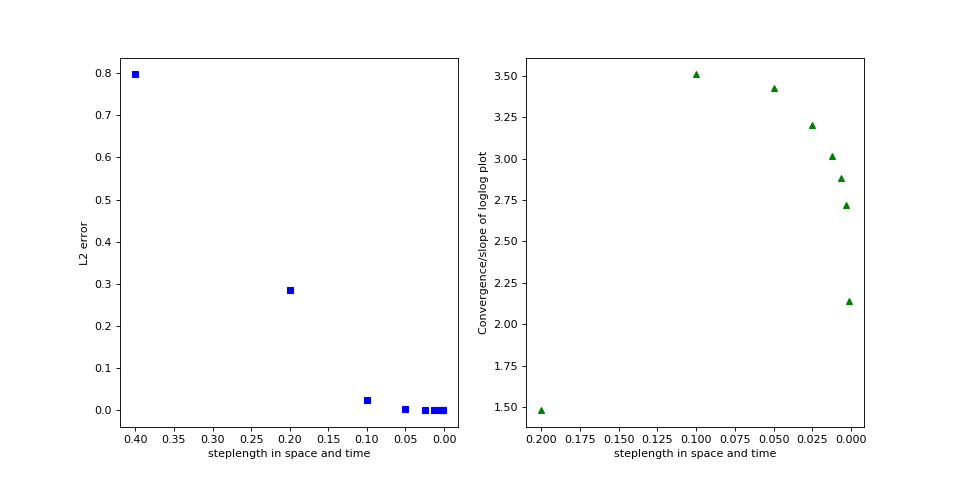
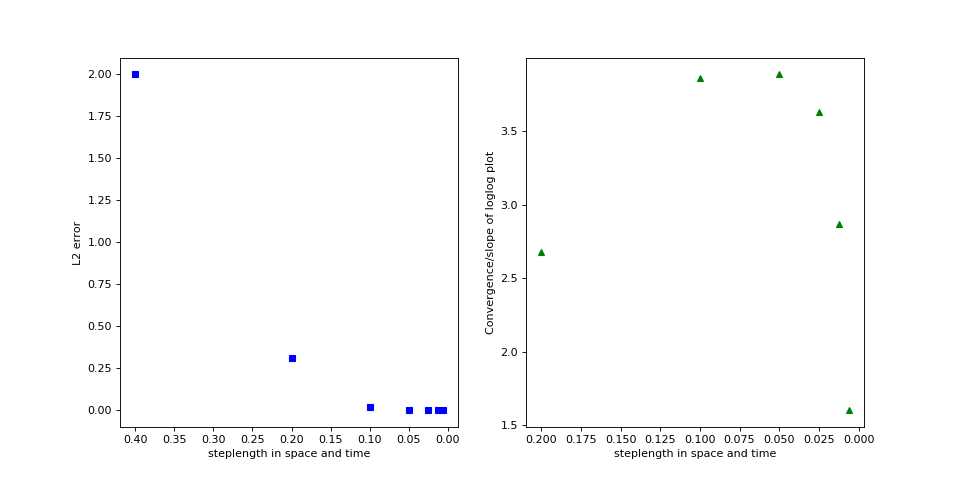
vegard fant feil

diff --git a/discontinousData.py b/discontinousData.py
@@ -6,6 +6,76 @@ import time
 from matplotlib import cm
 from matplotlib.ticker import LinearLocator, FormatStrFormatter
 from mpl_toolkits import mplot3d
+def ploterror():
+    gridSize = 5
+    nTests = 7
+    res = np.zeros([nTests,5])
+    for i in range(0,nTests):
+        res[i,0:2] = L2Error(gridSize,2*5**nTests)
+        res[i,2] = 2/gridSize
+        if(i>0):
+            [res[i,3], intercept] = np.polyfit(np.log(res[i-1:i+1,2]),np.log(res[i-1:i+1,0]),1)
+            [res[i,4], intercept] = np.polyfit(np.log(res[i-1:i+1,2]),np.log(res[i-1:i+1,1]),1)
+        gridSize = gridSize * 2
+
+    plt.subplot(121)
+    plt.plot(res[1:,2],res[1:,3],"g^")
+    plt.xlabel('steplength in space and time')
+    plt.ylabel('Convergence RK4/centraldifference')
+
+    plt.subplot(122)
+    plt.plot(res[1:,2],res[1:,4],"g^")
+    plt.xlabel('steplength in space and time')
+    plt.ylabel('Convergence forward euler in time and space')
+    plt.show()
+    return
+def plot3d(u,y,f):
+    fig = plt.figure(figsize=plt.figaspect(0.5))
+    ax = fig.add_subplot(1, 2, 1, projection='3d')
+
+    X,Y=np.meshgrid(np.linspace(0,1,m),np.linspace(0,T,n))
+    ax.plot_surface(X, Y, u.T,cmap='viridis', edgecolor='none')
+
+    ax.set_xlabel('X axis')
+    ax.set_ylabel('t axis')
+    ax.set_title("RK4/centraldifference")
+    ax = fig.add_subplot(1, 2, 2, projection='3d')
+    ax.plot_surface(X, Y, y.T,cmap='viridis', edgecolor='none')
+    ax.set_title("forward euler in time and space")
+    ax.set_xlabel('X axis')
+    ax.set_ylabel('t axis')
+    plt.show()
+    return
+
+def plot1d(u,y,f):
+    fig = plt.figure(figsize=plt.figaspect(0.5))
+    fig.add_subplot(1, 2, 1)
+    x = np.linspace(0,1,m,endpoint=False)
+    plt.plot(x,u[:,u.shape[1]-1],x,f)
+    plt.title("RK4/central difference")
+    fig.add_subplot(1, 2, 2)
+    plt.plot(x,y[:,y.shape[1]-1],x,f)
+    plt.title("forward euler in time and space")
+    plt.show()
+
+
+def L2Error(m,n):
+    x = np.linspace(0,1,m,endpoint = False)
+    f = np.zeros(x.shape)
+    f[ceil(m/3):ceil(2*m/3)] = 1
+    u = np.zeros([m,n])
+    y = u.copy()
+    h = 1/m
+    k = T/n
+    A = finitedifferences.centralDifference(m)
+    x = np.linspace(0,1,m)
+    u = RK4(A,f,u,h,k)
+    A = finitedifferences.forwardEuler(m)
+    y = forwardEuler(A,f,y,h,k)
+
+    u_error = np.abs(u[:,n-1]-f)
+    y_error = np.abs(y[:,n-1]-f)
+    return [np.dot(u_error,u_error)*h,np.dot(y_error,y_error)*h]
 
 def uExc(u,T,k,x):
     uExc = u.copy()
@@ -33,36 +103,29 @@ def forwardEuler(A,f,u,h,k):
     return u
 
 
-n = 15
-m = 15
-T = 1/2
+n = 60
+m = 40
+T = 1
 
-u = np.zeros([m,n])
 h = 1/m
 k = T/n
 A = finitedifferences.centralDifference(m)
-x = np.linspace(0,1,m)
+x = np.linspace(0,1,m,endpoint=False)
 f = np.zeros(x.shape)
-f[:ceil(m/2)] = 1
+#f = np.sin(2*3.1415*x)
+f[ceil(m/3):ceil(2*m/3)] = 1
 
+u = np.zeros([m,n])
 uE = uExc(u,T,k,x)
 u = RK4(A,f,u,h,k)
-fig = plt.figure(figsize=plt.figaspect(0.5))
-ax = fig.add_subplot(1, 2, 1, projection='3d')
 
-X,Y=np.meshgrid(np.linspace(0,1,m),np.linspace(0,T,n))
-ax.plot_surface(X, Y, u.T,cmap='viridis', edgecolor='none')
-
-ax.set_xlabel('X axis')
-ax.set_ylabel('t axis')
-ax.set_title("RK4/centraldifference")
-ax = fig.add_subplot(1, 2, 2, projection='3d')
 A = finitedifferences.forwardEuler(m)
-u = RK4(A,f,u,h,k)
-ax.plot_surface(X, Y, u.T,cmap='viridis', edgecolor='none')
-ax.set_title("forward euler in time and space")
-ax.set_xlabel('X axis')
-ax.set_ylabel('t axis')
-plt.show()
+y = u.copy()
+y = forwardEuler(A,f,y,h,k)
+#plot1d(u,y,f)
+error = np.abs(f-y[:,n-1])
+ploterror()
+print(np.dot(error,error)*h)
 
-plt.show()
+
+

diff --git a/L2ConvergenceAdvection.py b/L2ConvergenceAdvection.py
@@ -31,25 +31,25 @@ def L2Error(m,n,T):
     h = 1/m
     k = T/n
     A = finitedifferences.centralDifference(m)
-    x = np.linspace(0,1,m)
+    x = np.linspace(0,1,m,endpoint= False)
     f = np.sin(2*PI*x)
     u = RK4(A,f,u,h,k)
-    uE = uExc(u,T,k,x)
+    #uE = uExc(u,T,k,x)
 
-    error = np.abs(u[:,n-1]-uE[:,n-1])
+    error = np.abs(u[:,n-1]-f)
     return np.dot(error,error)*h
-nTests = 9
+nTests = 7
 gridSize = 5
 res = np.zeros([nTests,4])
 for i in range(0,nTests):
-    res[i,0] = L2Error(gridSize,gridSize,2)
+    res[i,0] = L2Error(gridSize,5*2*2*2*2**nTests,2)
     res[i,1] = 2/gridSize
     if(i>0):
         [res[i,2], intercept] = np.polyfit(np.log(res[i-1:i+1,1]),np.log(res[i-1:i+1,0]),1)
     gridSize = gridSize * 2
 
 [slope, intercept] = np.polyfit(np.log(res[:,1]),np.log(res[:,0]),1)
-print(res[:,2])
+print(res)
 
 plt.figure(num=None, figsize=(12, 6), dpi=80, facecolor='w', edgecolor='k')
 

diff --git a/test.py b/test.py
@@ -42,7 +42,7 @@ def uExc(u,T,k,x):
 
 T=4
 m=12
-n = 400
+n = 200
 u = np.zeros([m,n])
 h=1/m
 k = T/n
@@ -52,7 +52,7 @@ A = finitedifferences.centralDifference(m)
 x = np.linspace(0,1,m)
 f = np.sin(2*3.1415*x)
 print(u.shape[1])
-u = solver(A,f,u,h,k)
+u = RK4(A,f,u,h,k)
 X,Y=np.meshgrid(np.linspace(0,1,m),np.linspace(0,T,n))
 print(X.shape)
 print(Y.shape)

diff --git a/spacedisc.py b/spacedisc.py
@@ -1,0 +1,7 @@
+import numpy as np
+from matplotlib import pyplot as plt
+m=20
+x = np.linspace(0,1,m,endpoint = False)
+f = np.sin(2* 3.1415*x)
+plt.plot(x,f)
+plt.show()
